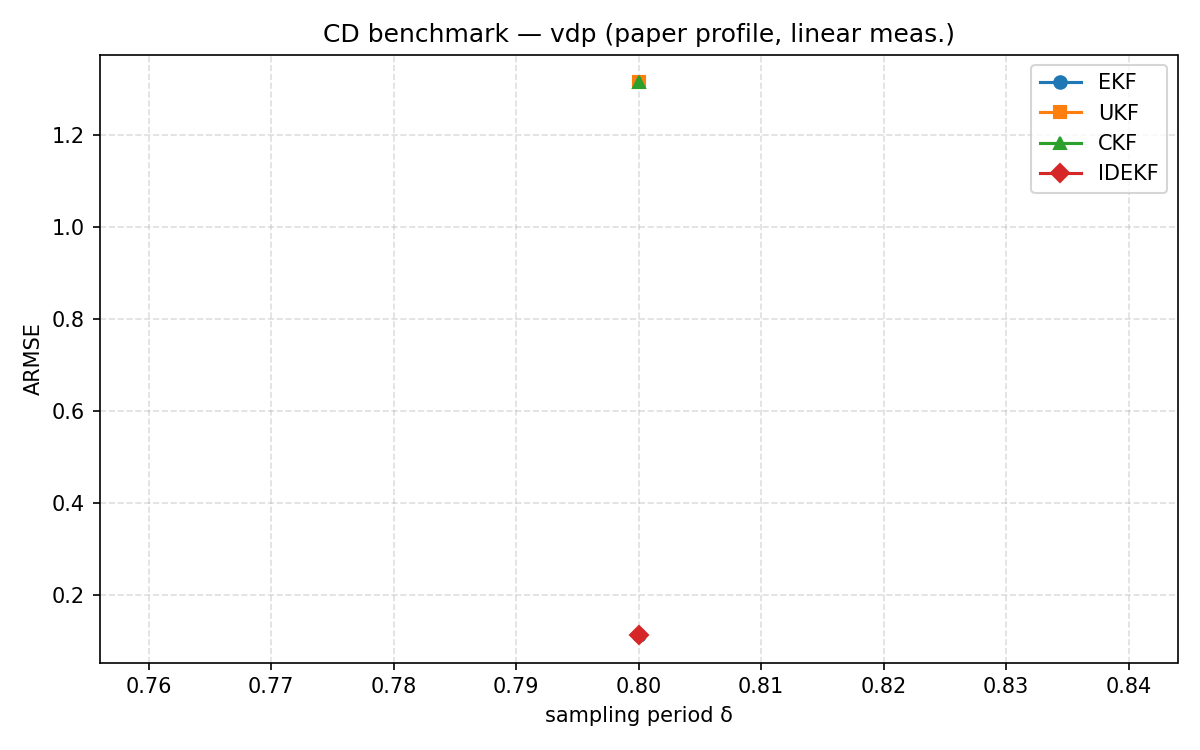
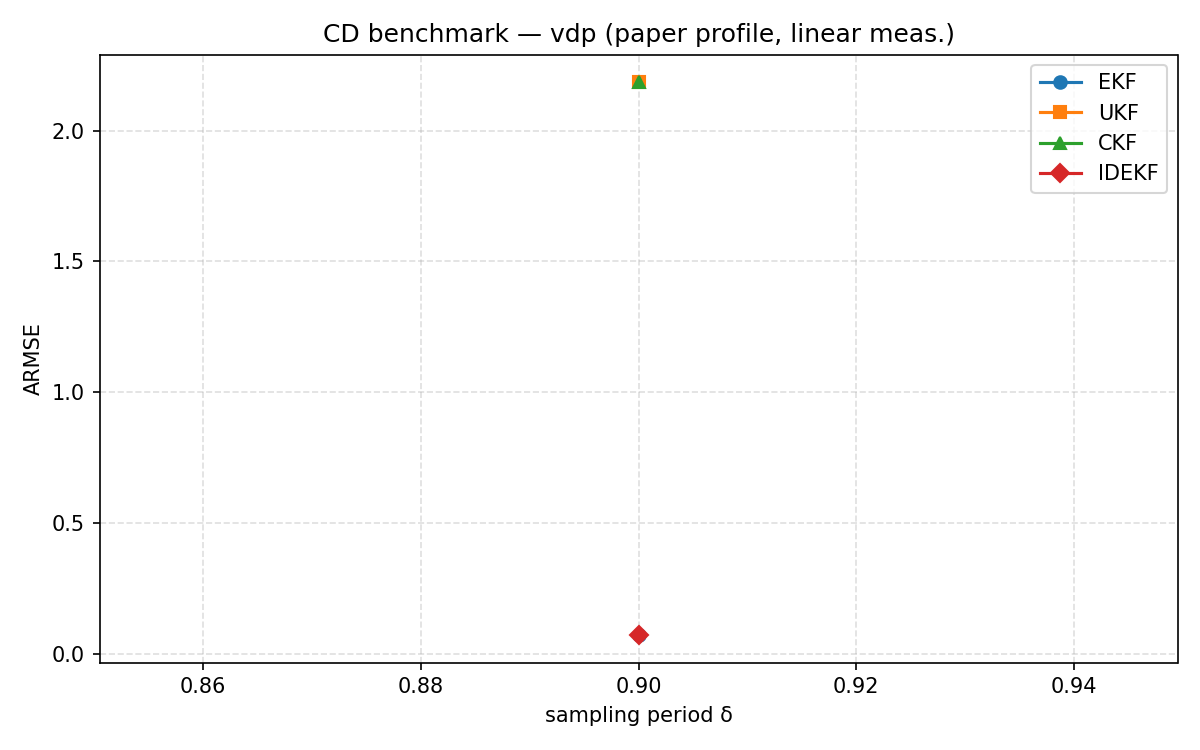
k

diff --git a/run_armse.py b/run_armse.py
@@ -205,7 +205,7 @@ if __name__ == "__main__":
     parser.add_argument("--runs", type=int, default=3)          
     parser.add_argument("--seed", type=int, default=1)
     parser.add_argument("--outdir", type=str, default="results")
-    deltas = [0.9]
+    deltas = [1.0]
     parser.add_argument("--deltas", type=float, nargs="*", default=deltas)
     parser.add_argument("--profile", choices=["paper"], default="paper")
     args = parser.parse_args()
